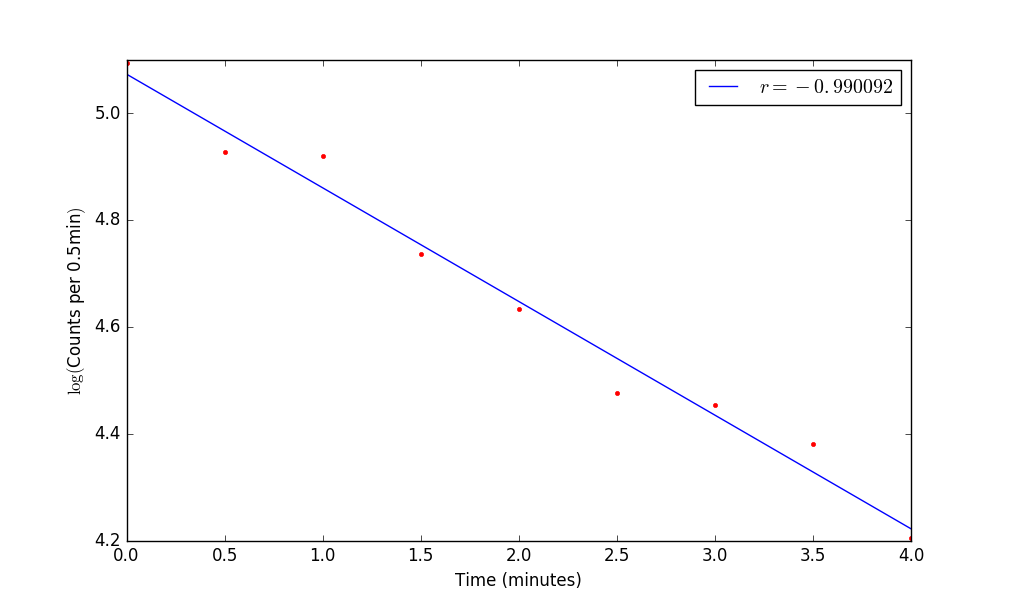
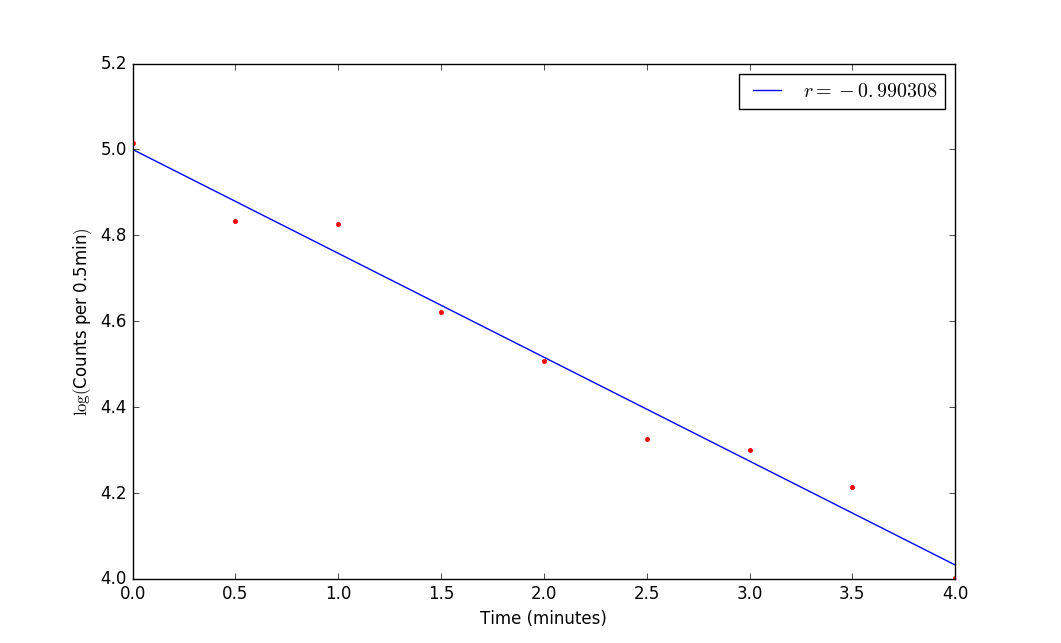
corrected for CMB in Barium decay

diff --git a/BariumLab1.py b/BariumLab1.py
@@ -185,9 +185,9 @@ print('CMB Counts/min: %1.0f ± %1.0f' % (np.floor(mu_cpm_cmb), np.floor(s_cpm_c
 
 # Ok now to draw some shit
 plot_volts_cps(hv_test_volts, hv_test_cps)
-plot_times_counts(ba_times, ba_counts)
-
 plot_cpm_counts(cpm_cmb)
+
+plot_times_counts(ba_times, ba_counts - (mu_cpm_cmb / 2.)) # correction for CMB
 
 plot_thickness_intensity(abs_thicknessBeta, beta_intensity, 0, 450)
 plot_thickness_intensity(abs_thicknessGamma[0:10], gamma_intensity[0:10], 0, 360)
